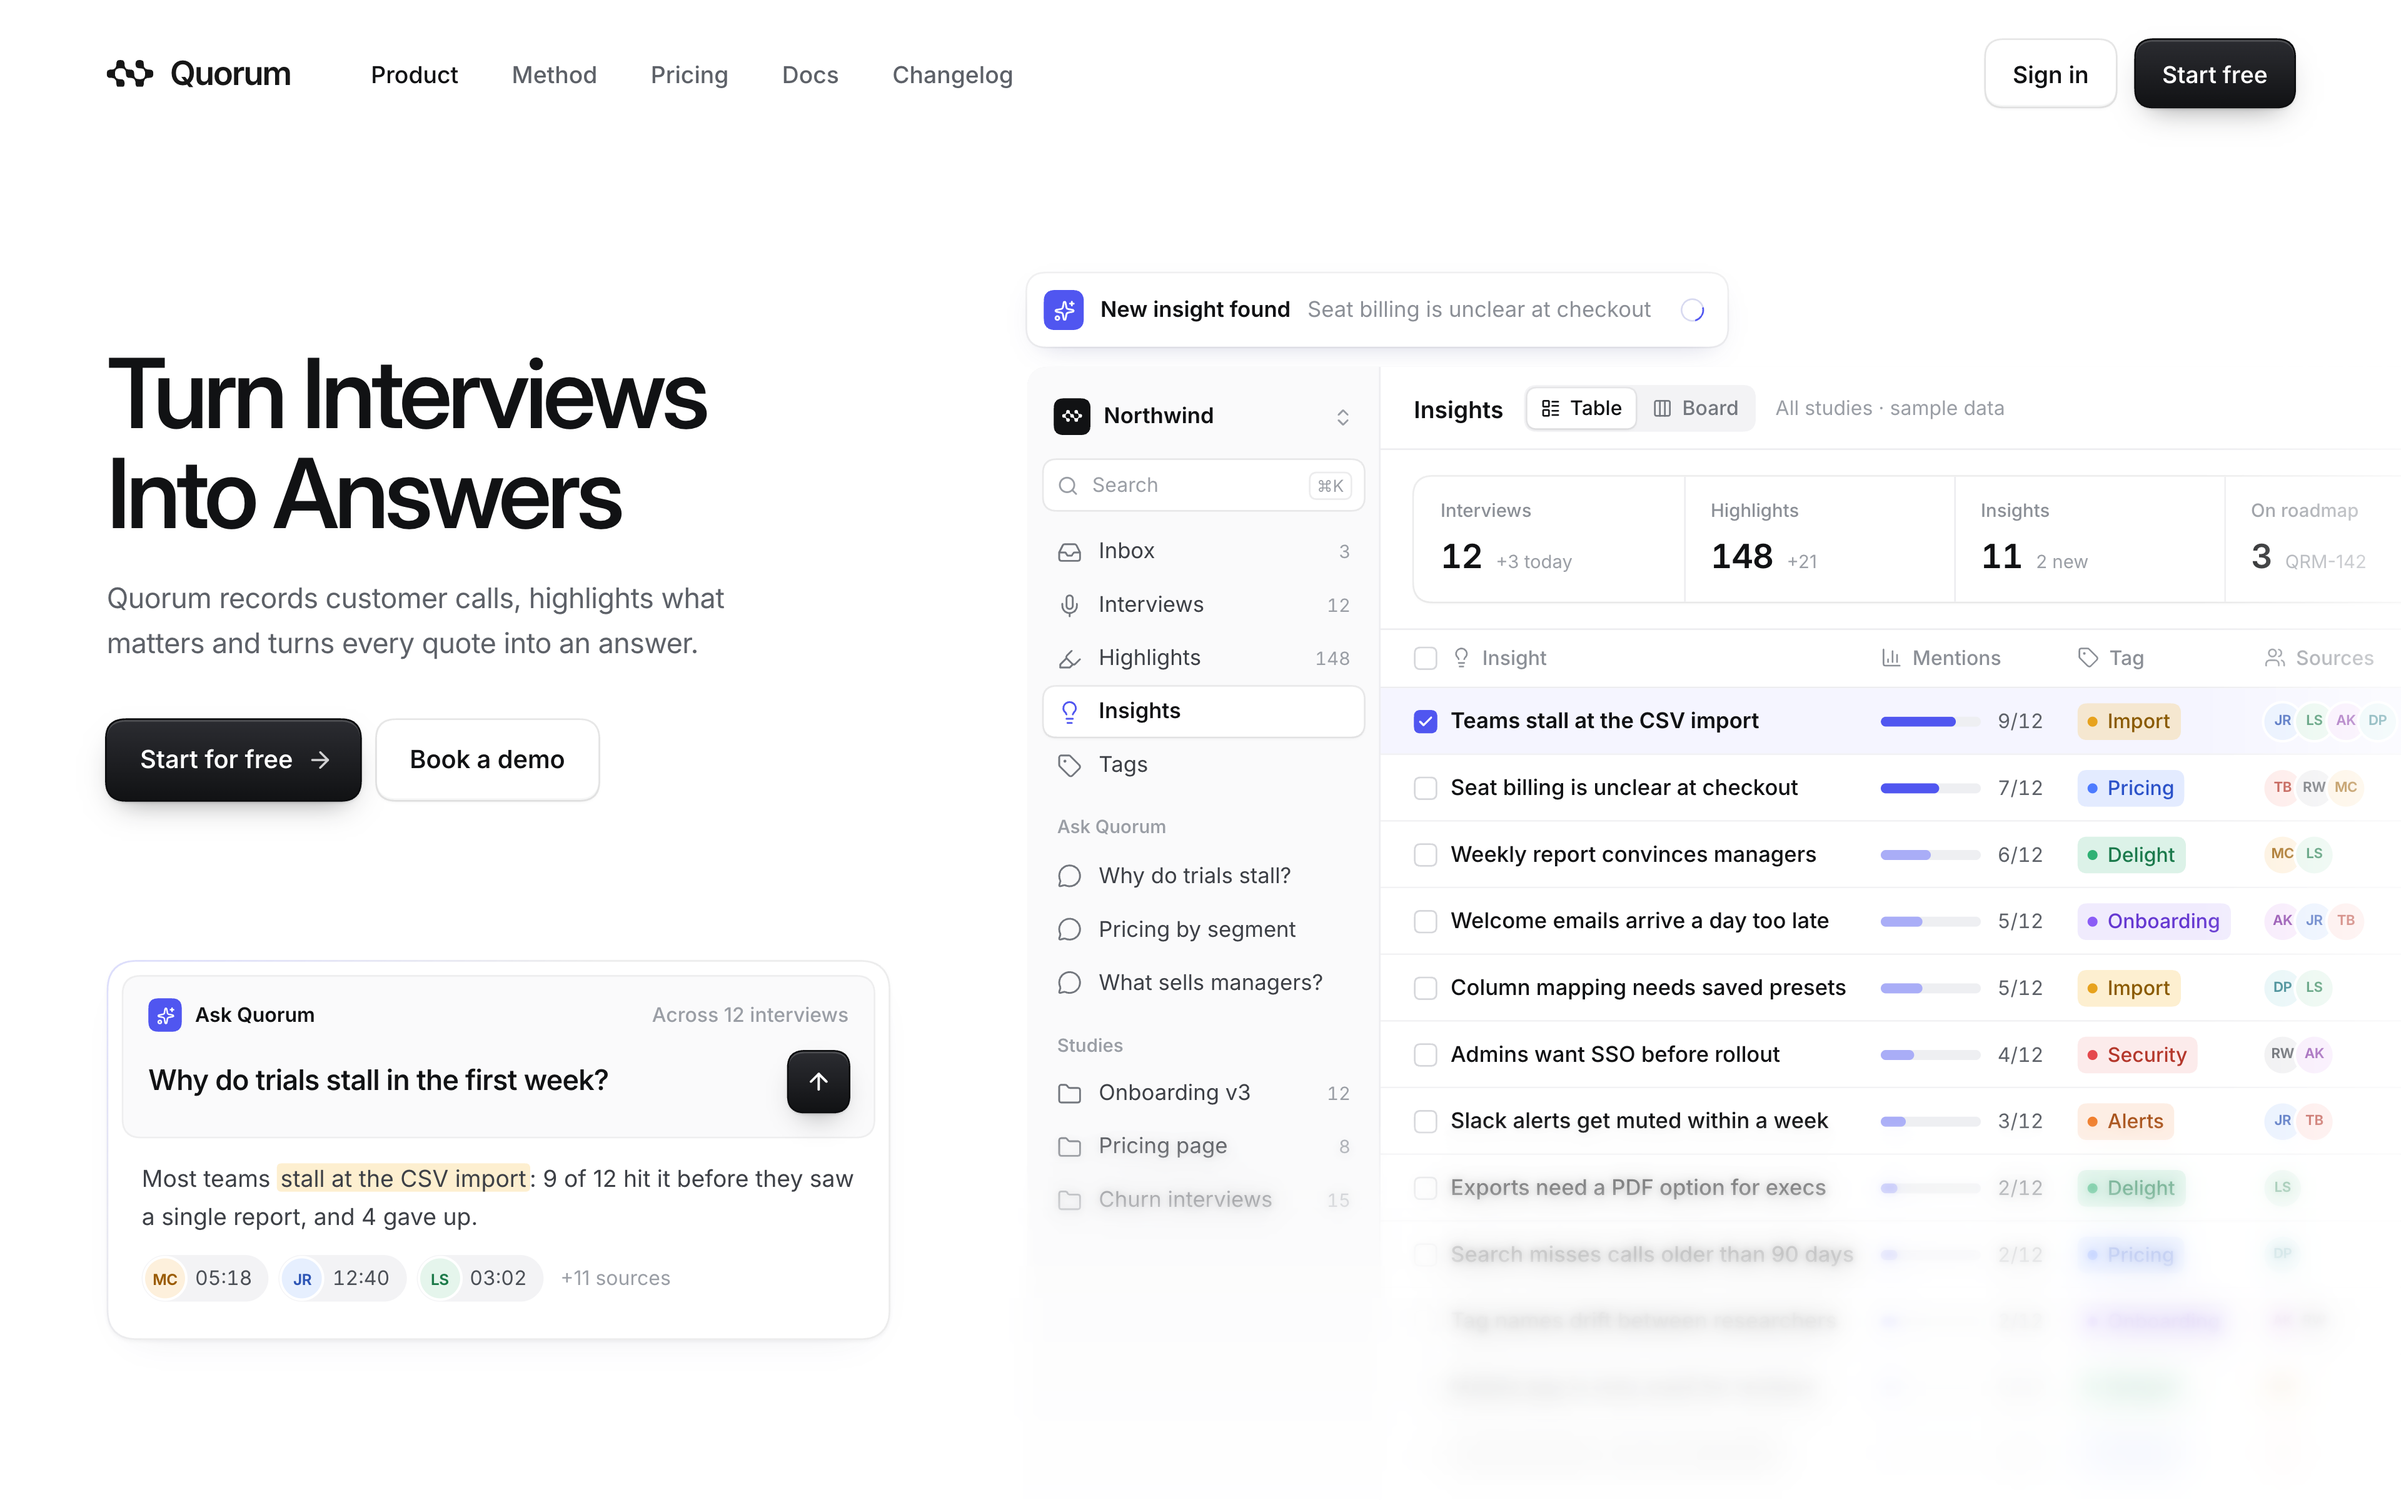
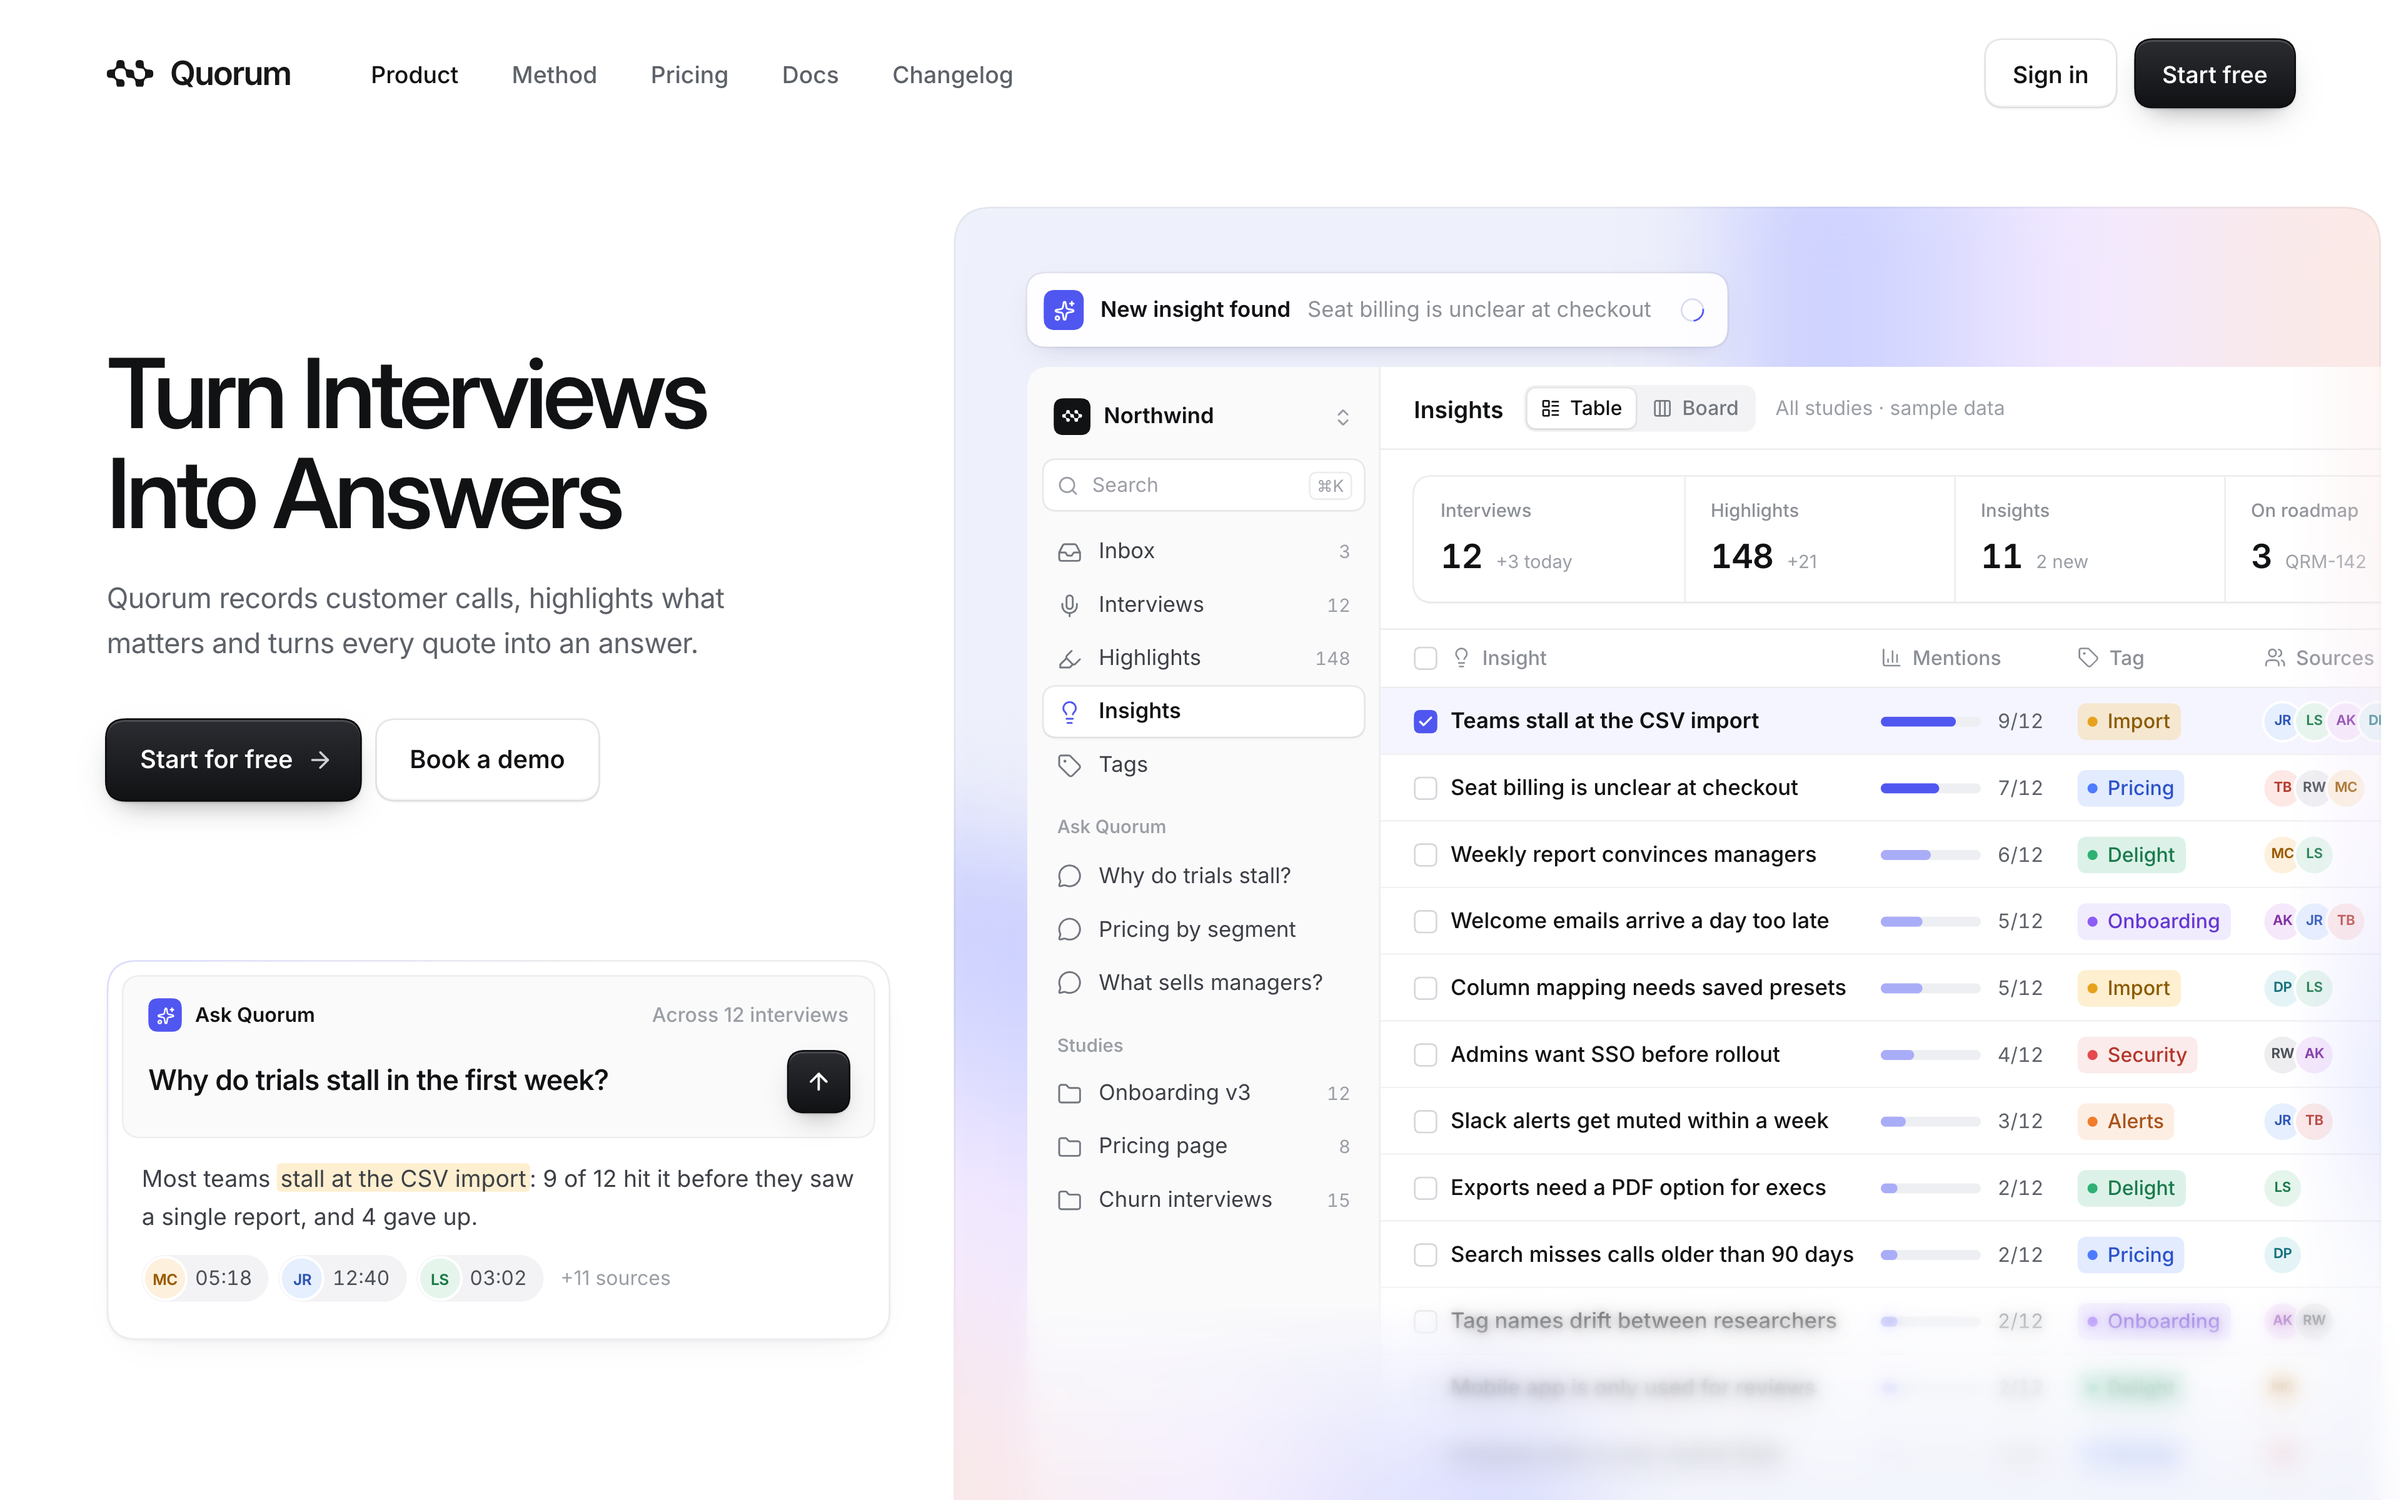
Quorum v6.6: gradient stage restored without texture (shader at noise 0, blurred), shorter dissolve blur

diff --git a/work/quorum/app/src/HeroV6.tsx b/work/quorum/app/src/HeroV6.tsx
@@ -4,6 +4,7 @@
 // a peek card with the source quote and clip straddling the stage edge, quiet substance under the CTAs, tactile buttons.
 import { type ReactNode, useEffect, useState } from 'react'
 import { AnimatePresence, motion, MotionConfig } from 'motion/react'
+import { GrainGradient } from '@paper-design/shaders-react'
 import { ArrowRight, ArrowUp, BarChart3, Check, ChevronsUpDown, Highlighter, Inbox, Lightbulb, Mic, MessageCircle, Search, Sparkles, Tag, Users, Folder, LayoutList, Columns3 } from 'lucide-react'
 import { ease } from './motion'
 import { TAG, type TagKey } from './Product'
@@ -13,7 +14,7 @@ const T = { nav: 0.1, h1: 0.25, sub: 0.55, cta: 0.66, feats: 0.8, stage: 0.2, ap
 const INK = '#111214', SUB = '#5d6168', IND = '#5056f0'
 const STAGE = { x: 572, y: 124, w: 856, h: 820 }
 // the product dissolves into the page: fades over its last ~200px at the bottom and ~140px at the right
-const FADE = 'linear-gradient(180deg, #000 62%, transparent 92%), linear-gradient(90deg, #000 78%, transparent 99%)'
+const FADE = 'linear-gradient(180deg, #000 74%, transparent 96%), linear-gradient(90deg, #000 84%, transparent 100%)'
 
 const Up = ({ at, y = 14, className = '', children }: { at: number; y?: number; className?: string; children: ReactNode }) => (
   <motion.div className={className} initial={{ opacity: 0.01, y, filter: 'blur(6px)' }} animate={{ opacity: 1, y: 0, filter: 'blur(0px)' }}
@@ -226,8 +227,10 @@ export default function HeroV6() {
           <Up at={T.feats} className="mt-24"><AskBox /></Up>
         </section>
 
-        <motion.div className="absolute z-10" style={{ left: STAGE.x, top: STAGE.y, width: STAGE.w + 12, height: STAGE.h }}
+        <motion.div className="absolute z-10 overflow-hidden rounded-[24px]" style={{ left: STAGE.x, top: STAGE.y, width: STAGE.w, height: STAGE.h }}
           initial={{ opacity: 0 }} animate={{ opacity: 1 }} transition={{ delay: T.stage, duration: 1.0 }}>
+          <GrainGradient style={{ position: 'absolute', inset: -40, width: STAGE.w + 80, height: STAGE.h + 80, filter: 'blur(26px)' }} colorBack="#eef0fb" colors={['#aeb4ff', '#d4d7ff', '#f3e9ff', '#ffe9dc']} shape="corners" softness={0.85} intensity={0.22} noise={0} speed={0.25} />
+          <div aria-hidden className="absolute inset-0 rounded-[24px] shadow-[inset_0_0_0_1px_rgba(17,18,20,0.06)]" />
           <AgentStack />
           <motion.div className="absolute left-[44px] top-[96px] h-[760px] w-[900px] overflow-hidden rounded-[14px] bg-white" style={{ boxShadow: '0 0 0 1px rgba(17,18,20,0.08), 0 2px 6px rgba(17,18,20,0.04), 0 30px 60px -24px rgba(17,18,20,0.18)', WebkitMaskImage: FADE, maskImage: FADE, WebkitMaskComposite: 'source-in', maskComposite: 'intersect' }}
             initial={{ opacity: 0, y: 40 }} animate={{ opacity: 1, y: 0 }} transition={{ delay: T.app, duration: 1.3, ease: ease.reveal, opacity: { delay: T.app, duration: 0.6 } }}>
@@ -235,8 +238,8 @@ export default function HeroV6() {
           </motion.div>
         </motion.div>
         {/* progressive blur over the dissolving bottom of the product only (three stacked backdrop blurs, deeper bands blur more) */}
-        {([[2, '60%'], [5, '78%'], [10, '95%']] as const).map(([b, to]) => (
-          <div key={b} aria-hidden className="pointer-events-none absolute bottom-0 right-0 z-20 h-[230px]" style={{ left: STAGE.x, backdropFilter: `blur(${b}px)`, WebkitBackdropFilter: `blur(${b}px)`, WebkitMaskImage: `linear-gradient(180deg, transparent, #000 ${to})`, maskImage: `linear-gradient(180deg, transparent, #000 ${to})` }} />
+        {([[2, '60%'], [4, '80%'], [8, '98%']] as const).map(([b, to]) => (
+          <div key={b} aria-hidden className="pointer-events-none absolute bottom-0 right-0 z-20 h-[140px]" style={{ left: STAGE.x, backdropFilter: `blur(${b}px)`, WebkitBackdropFilter: `blur(${b}px)`, WebkitMaskImage: `linear-gradient(180deg, transparent, #000 ${to})`, maskImage: `linear-gradient(180deg, transparent, #000 ${to})` }} />
         ))}
       </div>
     </MotionConfig>

diff --git a/knowledge/founder/founder-taste.md b/knowledge/founder/founder-taste.md
@@ -294,7 +294,7 @@ Every rule here is a direct founder verdict on real output. It outranks books, w
 - **RULE** [founder] A minimal live element above a product beats a stack. Use one status bar, plus a row of 44px square tiles to its right: the inputs feeding it, such as tinted-initial participant tiles, one with a green live dot, and a +N tile. Never ghost cards stacked behind. The composer under the hero CTAs should be big enough to carry a moment: about 64px below the CTAs and 470px wide, with a 17/550 question, and once typed it streams a one-sentence answer with the key finding highlighted in its tag colour and three citation chips (avatar plus timestamp). The founder loved the grain stage (Paper GrainGradient, corners shape, indigo/lavender/peach).
   **Why** Founder on Quorum v6.2: "love the grain thingy... the thing above, I meant add maybe squares to the right or something minimal, not stack up... the below left side visual to be higher and have a bigger gap... better styled or a bit bigger... something cooler".
   **Applies to** split product heroes. **Check** no stacked ghost cards; the composer shows a real answer with sources in the final frame. **Source** founder, Quorum v6.2, 2026-10-15
-- **RULE** [founder] Vertical rhythm on the copy side: the gap from the CTAs to the element below them equals the gap from that element to the fold (Quorum v6.5: 96 / 97px). Above the product, keep only the single status bar (no avatar rows, no stacks). After living with the grain stage, the founder preferred the product on the plain page, dissolving into it: mask the window bottom (#000 62% to transparent 92%) and right (78% to 99%), with a progressive blur over the dissolving band (three stacked backdrop blurs of 2/5/10px, each masked deeper).
+- **RULE** [founder] Vertical rhythm on the copy side: the gap from the CTAs to the element below them equals the gap from that element to the fold (Quorum v6.5: 96 / 97px). Above the product, keep only the single status bar (no avatar rows, no stacks). Keep the gradient stage but drop only its grain texture (founder: "get rid only of the texture, not the bg": removing the whole gradient was wrong). Paper GrainGradient dithers at its colour edges even at noise 0, so render it at noise 0 and blur the shader layer (filter blur 26px, inset -40px so the edges stay full). The product dissolves into the stage: mask the window bottom (#000 62% to transparent 92%) and right (78% to 99%), with a short progressive blur (a 140px band of stacked 2/4/8px backdrop blurs; 230px "lasts too long").
   **Why** Founder on Quorum v6.4: "move entire left side a tiny bit down so the gap for the visual and buttons is the same to the visual's bottom... remove the pfps, keep the initial version of the dashboard top... remove the grain bg and a slight blur out of the bottom of the dashboard or sides".
   **Applies to** split product heroes. **Check** measure both gaps (within 4px); the product has no hard bottom edge inside the fold. **Source** founder, Quorum v6.4, 2026-10-15
 ## 5. Exceptions & judgement calls
